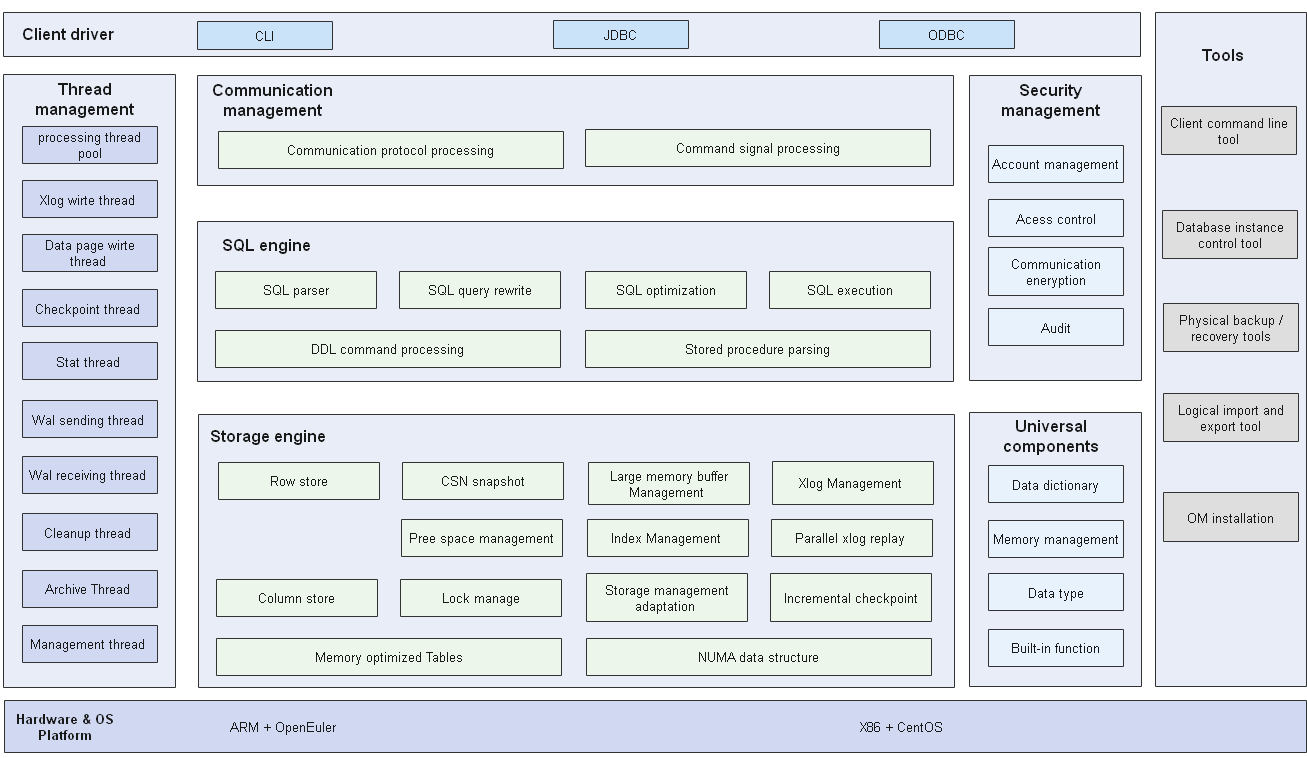
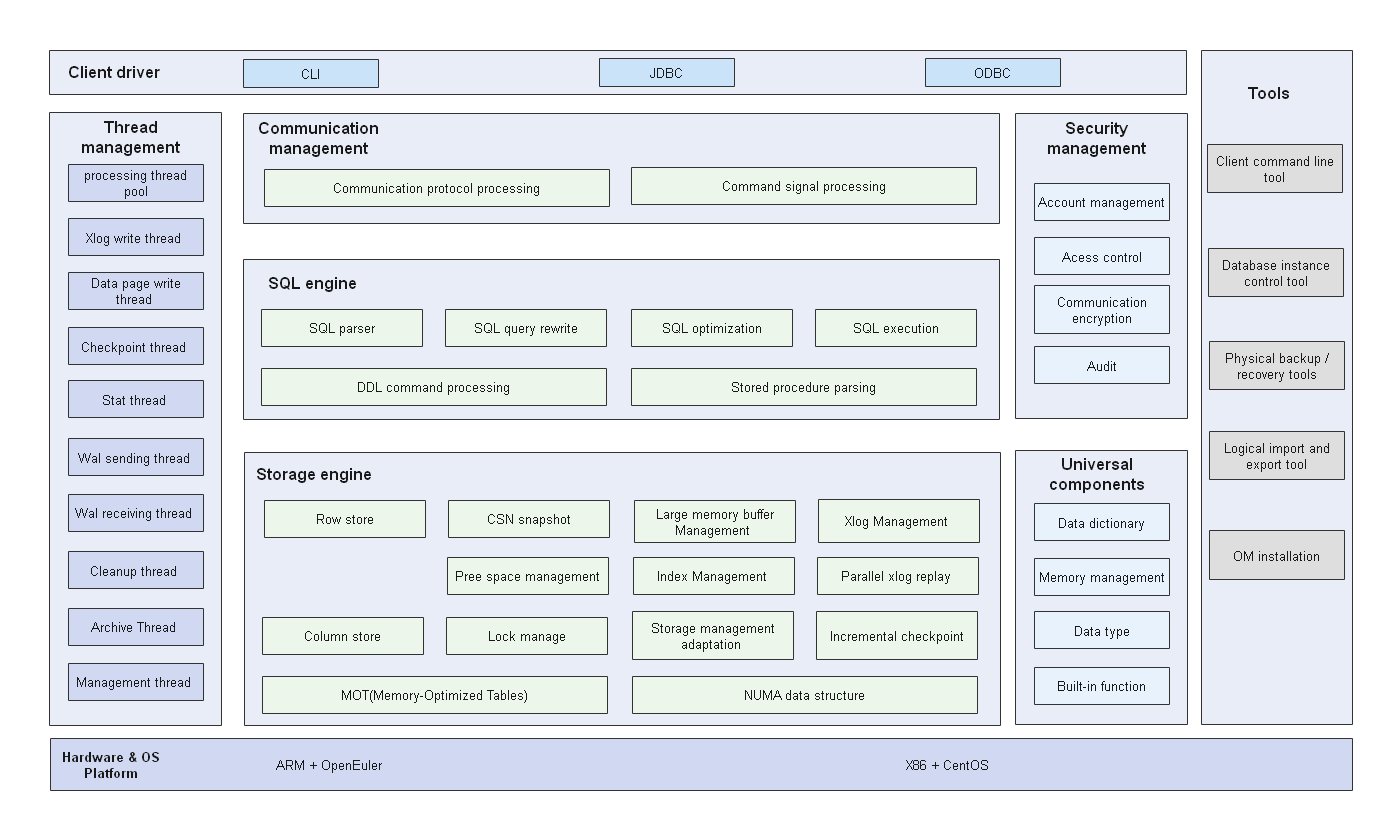
Update the description of MOT..

Changed region(s): [[0.0, 0.0, 1.0, 1.0]]

diff --git a/README.md b/README.md
@@ -31,7 +31,7 @@ openGauss is an open source relational database management system. It has multi-
 
 **High Performance**
 
-openGauss breaks through the bottleneck of multi-core CPU, 2-way Kunpeng 128 core 1.5 million TPMC.
+openGauss breaks through the bottleneck of multi-core CPU, 2-way Kunpeng 128 core 1.5 million TPMC on disk-based row store and 3.5 million TPMC on MOT (Memory-Optimized Tables) Engine.
 
 **Partitions**
 
@@ -60,6 +60,10 @@ Under normal service loads, the RTO is less than 10 seconds, reducing the servic
 **Parallel Recovery**
 
 When the Xlog is transferred to the standby node, the standby node flushs the Xlog to storage medium. At the mean time, the Xlog is sent to the redo recovery dispatch thread. The dispatch thread sends the Xlog to multiple parallel recovery threads to replay. Ensure that the redo speed of the standby node keeps up with the generation speed of the primary host. The standby node is ready in real time, which can be promoted to primary instantly. 
+
+**MOT Engine (beta release)**
+
+The Memory-Optimized Tables (MOT) storage engine is a transactional rowstore optimized for many-core and large memory and delivering extreme OLTP performance and high resources utilization. With data and indexes stored totally in-memory, a NUMA-aware design, algorithms that eliminate lock and latch contention and query native compilation (JIT), MOT provides low latency data access and more efficient transaction execution. See MOT Engine documentation (https://opengauss.org/en/docs/1.0.0/docs/Developerguide/mot.html).
 
 **Security**
 
